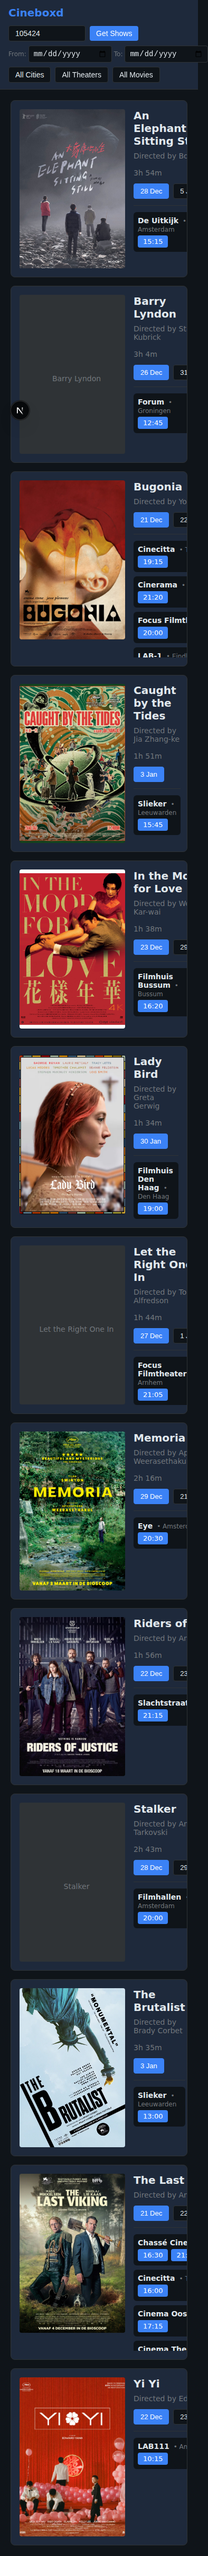
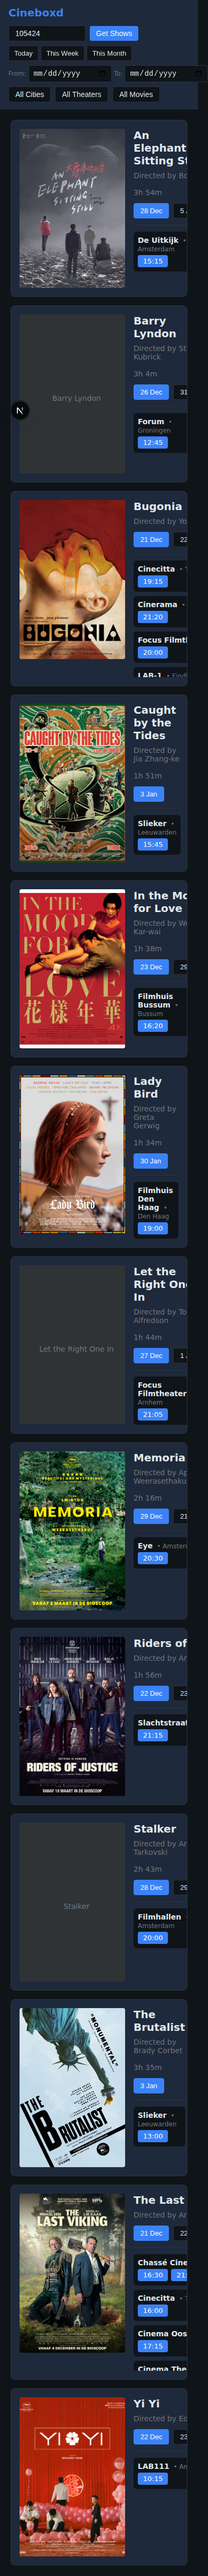
Add date shortcut buttons in header
- Today: sets both dates to current day
- This Week: from today to end of week (Sunday)
- This Month: from today to end of month

🤖 Generated with [Claude Code](https://claude.com/claude-code)

diff --git a/src/app/page.tsx b/src/app/page.tsx
@@ -566,6 +566,73 @@ export default function Home() {
               {isLoading ? 'Loading...' : 'Get Shows'}
             </button>
 
+            {/* Date Shortcuts */}
+            <div style={{ display: 'flex', gap: '4px' }}>
+              <button
+                onClick={() => {
+                  const today = new Date().toISOString().split('T')[0];
+                  setStartDate(today);
+                  setEndDate(today);
+                }}
+                style={{
+                  padding: '6px 10px',
+                  borderRadius: '4px',
+                  border: '1px solid #2f3336',
+                  backgroundColor: '#0f1419',
+                  color: '#e1e8ed',
+                  fontSize: '13px',
+                  cursor: 'pointer'
+                }}
+                onMouseOver={(e) => e.currentTarget.style.backgroundColor = '#2f3336'}
+                onMouseOut={(e) => e.currentTarget.style.backgroundColor = '#0f1419'}
+              >
+                Today
+              </button>
+              <button
+                onClick={() => {
+                  const today = new Date();
+                  const endOfWeek = new Date(today);
+                  endOfWeek.setDate(today.getDate() + (7 - today.getDay()));
+                  setStartDate(today.toISOString().split('T')[0]);
+                  setEndDate(endOfWeek.toISOString().split('T')[0]);
+                }}
+                style={{
+                  padding: '6px 10px',
+                  borderRadius: '4px',
+                  border: '1px solid #2f3336',
+                  backgroundColor: '#0f1419',
+                  color: '#e1e8ed',
+                  fontSize: '13px',
+                  cursor: 'pointer'
+                }}
+                onMouseOver={(e) => e.currentTarget.style.backgroundColor = '#2f3336'}
+                onMouseOut={(e) => e.currentTarget.style.backgroundColor = '#0f1419'}
+              >
+                This Week
+              </button>
+              <button
+                onClick={() => {
+                  const today = new Date();
+                  const endOfMonth = new Date(today.getFullYear(), today.getMonth() + 1, 0);
+                  setStartDate(today.toISOString().split('T')[0]);
+                  setEndDate(endOfMonth.toISOString().split('T')[0]);
+                }}
+                style={{
+                  padding: '6px 10px',
+                  borderRadius: '4px',
+                  border: '1px solid #2f3336',
+                  backgroundColor: '#0f1419',
+                  color: '#e1e8ed',
+                  fontSize: '13px',
+                  cursor: 'pointer'
+                }}
+                onMouseOver={(e) => e.currentTarget.style.backgroundColor = '#2f3336'}
+                onMouseOut={(e) => e.currentTarget.style.backgroundColor = '#0f1419'}
+              >
+                This Month
+              </button>
+            </div>
+
             {/* Date Filters */}
             <div style={{ display: 'flex', alignItems: 'center', gap: '4px' }}>
               <span style={{ fontSize: '12px', color: '#71767b' }}>From:</span>
